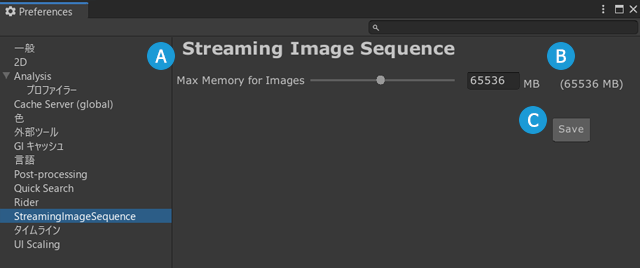
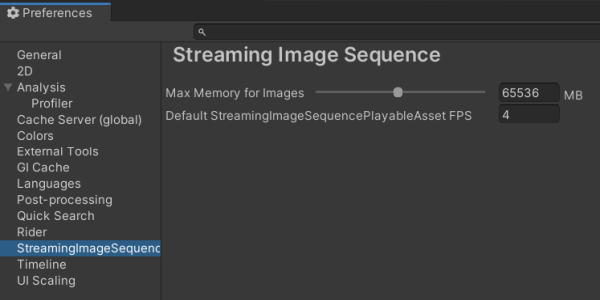
doc: add Preferences page and update the pictures of inspectors (#255)
* Add a Preferences page, and move some sections in the main index there
* Update SISPlayableAssetInspector and RenderCachePlayableAssetInspector images
* Add background color property in the inspector section of StreamingImageSequencePlayableAsset
* Add background color properties in the inspector section of RenderCachePlayableAsset
* Change the label for the BG color when updating RenderCache
* Update TOC

diff --git a/Editor/Scripts/Features/RenderCache/RenderCachePlayableAssetInspector.cs b/Editor/Scripts/Features/RenderCache/RenderCachePlayableAssetInspector.cs
@@ -106,7 +106,7 @@ internal class RenderCachePlayableAssetInspector : UnityEditor.Editor {
             ++EditorGUI.indentLevel;
             Color updateBGColor = m_asset.GetUpdateBGColor();
             Color timelineBgColor = m_asset.GetTimelineBGColor();
-            m_asset.SetUpdateBGColor(EditorGUILayout.ColorField("When updating", updateBGColor));
+            m_asset.SetUpdateBGColor(EditorGUILayout.ColorField("In Game Window (Update)", updateBGColor));
             m_asset.SetTimelineBGColor(EditorGUILayout.ColorField("In Timeline Window", timelineBgColor));
             --EditorGUI.indentLevel;
             GUILayout.Space(15);

diff --git a/Documentation~/jp/index.md b/Documentation~/jp/index.md
@@ -31,20 +31,13 @@ Streaming Image Sequence は、Unity 2D Sprite を作成せずに Unity の Time
 
    ![FaderDemo](../images/FaderDemo.gif)
 
-## メモリ
+## エディタでのメモリ使用量
 
-StreamingImageSequence は、スムーズな画像再生を提供するために、物理メモリを確保します。  
+StreamingImageSequence は、スムーズな画像再生を提供するために、エディタで物理メモリを確保します。  
 この確保は、次の要件を満たすように設定されています:
 1. システムの物理メモリの合計の 90％ を超えない。
-1. **編集 > 設定** ウィンドウで設定できるメモリの最大量を超えない。
+1. [環境設定](Preferences.md)で設定できるメモリの最大量を超えない。
 
-![Preferences](../images/Preferences.png)
-
-| 記号    | 用途                                                                    | 
-| ------- | ---------------------------------------------------------------------- | 
-| A       | 設定できる環境変数                                                       |   
-| B       | 現在の設定値                                                            |   
-| C       | 適応し、保存する                                                        |  
 
 ## その他の言語
 - [English](../index.md)

diff --git a/README.md b/README.md
@@ -60,21 +60,12 @@ differ based on the version of Unity.
 
    ![FaderDemo](Documentation~/images/FaderDemo.gif)
 
-## Memory
+## Memory Usage in the Editor
 
-StreamingImageSequence allocates physical memory to ensure smooth image playback.  
+StreamingImageSequence allocates physical memory to ensure smooth image playback in the Editor.    
 This allocation is set to satisfy the following requirements:
 1. Does not exceed 90% of the total physical memory of the system.
-2. Does not exceed the maximum amount of memory, which can be configured on the
-**Edit > Preferences** window.
-
-![Preferences](Documentation~/images/Preferences.png)
-
-| Legend  | Use                                                                                       | 
-| ------- | ---------------------------------------------------------------------- | 
-| A       | Preferences to configure                                               |   
-| B       | Currently applied values                                               |   
-| C       | Apply and save                                                         |  
+2. Does not exceed the maximum amount of memory, which can be configured in [Preferences](en/Preferences.md).
 
 ## Plugins
 * [Building](Plugins~/Docs/en/BuildPlugins.md)

diff --git a/Documentation~/index.md b/Documentation~/index.md
@@ -32,22 +32,12 @@ It is designed with the following principles in mind:
 
    ![FaderDemo](images/FaderDemo.gif)
 
-## Memory
+## Memory Usage in the Editor
 
-StreamingImageSequence allocates physical memory to ensure smooth image playback.    
+StreamingImageSequence allocates physical memory to ensure smooth image playback in the Editor.    
 This allocation is set to satisfy the following requirements:
 1. Does not exceed 90% of the total physical memory of the system.
-2. Does not exceed the maximum amount of memory, which can be configured on the
-**Edit > Preferences** window.
-
-![Preferences](images/Preferences.png)
-
-| Legend  | Use                                                                                       | 
-| ------- | ---------------------------------------------------------------------- | 
-| A       | Preferences to configure                                               |   
-| B       | Currently applied values                                               |   
-| C       | Apply and save                                                         |  
-
+2. Does not exceed the maximum amount of memory, which can be configured in [Preferences](en/Preferences.md).
 
 ## Other Languages
 - [日本語](jp/index.md)

diff --git a/Documentation~/TableOfContents.md b/Documentation~/TableOfContents.md
@@ -5,6 +5,7 @@
     * [Caching Render Results](en/RenderCachePlayableAsset.md)
     * [Fading Image Objects](en/FaderPlayableAsset.md)
 * References
+    * [Preferences](en/Preferences.md)
     * [FrameMarkers](en/FrameMarkers.md)
 * 日本語
     * [StreamingImageSequence](jp/index.md)
@@ -14,4 +15,5 @@
         * [描画の結果のキャッシュを生成する](jp/RenderCachePlayableAsset.md)
         * [Image オブジェクトをフェードさせる](jp/FaderPlayableAsset.md)
     * 参照
+      * [環境設定](jp/Preferences.md)
       * [フレームマーカー](jp/FrameMarkers.md)

diff --git a/Documentation~/en/RenderCachePlayableAsset.md b/Documentation~/en/RenderCachePlayableAsset.md
@@ -74,7 +74,11 @@ Refer to [FrameMarkers](FrameMarkers.md) for more details.
   from being rewritten, which is useful to maintain custom manipulation 
   to previous cached images.  
   ![RenderCache_LockFrames](../images/RenderCache_LockFrames.png)
-
+* **Background Colors**.  
+  * **In Game window (Update)**  
+    The background color of the Game window when updating RenderCache.    
+  * **In Timeline Window**  
+    The background color of the preview images in the Timeline window.    
 * **Update Render Cache**  
   Render and cache the results as images.
 

diff --git a/Documentation~/jp/Preferences.md b/Documentation~/jp/Preferences.md
@@ -1,0 +1,15 @@
+# 環境設定
+
+![Preferences](../images/Preferences.png)
+
+**編集 > 設定** で環境設定を開きます。
+
+* **Max Memory for Images**  
+  エディタで画像をロードするために確保できるメモリの最大量。
+* **Default StreamingImageSequencePlayableAsset FPS**  
+  画像シーケンスで作成した新しい StreamingImageSequencePlayableAsset のデフォルト FPS。
+
+
+
+
+

diff --git a/Documentation~/en/Preferences.md b/Documentation~/en/Preferences.md
@@ -1,0 +1,17 @@
+# Preferences
+
+![Preferences](../images/Preferences.png)
+
+Open Preferences by clicking on **Edit > Preferences**.
+
+* **Max Memory for Images**  
+  The maximum amount of memory that can be allocated for loading images in the Editor.
+* **Default StreamingImageSequencePlayableAsset FPS**  
+  The default FPS when creating a new StreamingImageSequencePlayableAsset with a sequence of images.
+
+
+
+
+
+
+

diff --git a/Documentation~/en/StreamingImageSequencePlayableAsset.md b/Documentation~/en/StreamingImageSequencePlayableAsset.md
@@ -75,6 +75,9 @@ Refer to [FrameMarkers](FrameMarkers.md) for more details.
   Show/hide the [FrameMarker](FrameMarkers.md) of each frame.
   * **Reset**  
     Reset edits to FrameMarkers.
+* **Background Colors**.  
+  * **In Timeline Window**  
+    The background color of the preview images in the Timeline window.    
 * **Reset Curve**.  
   Reset the curve timing in the PlayableAsset to be linear.
 
